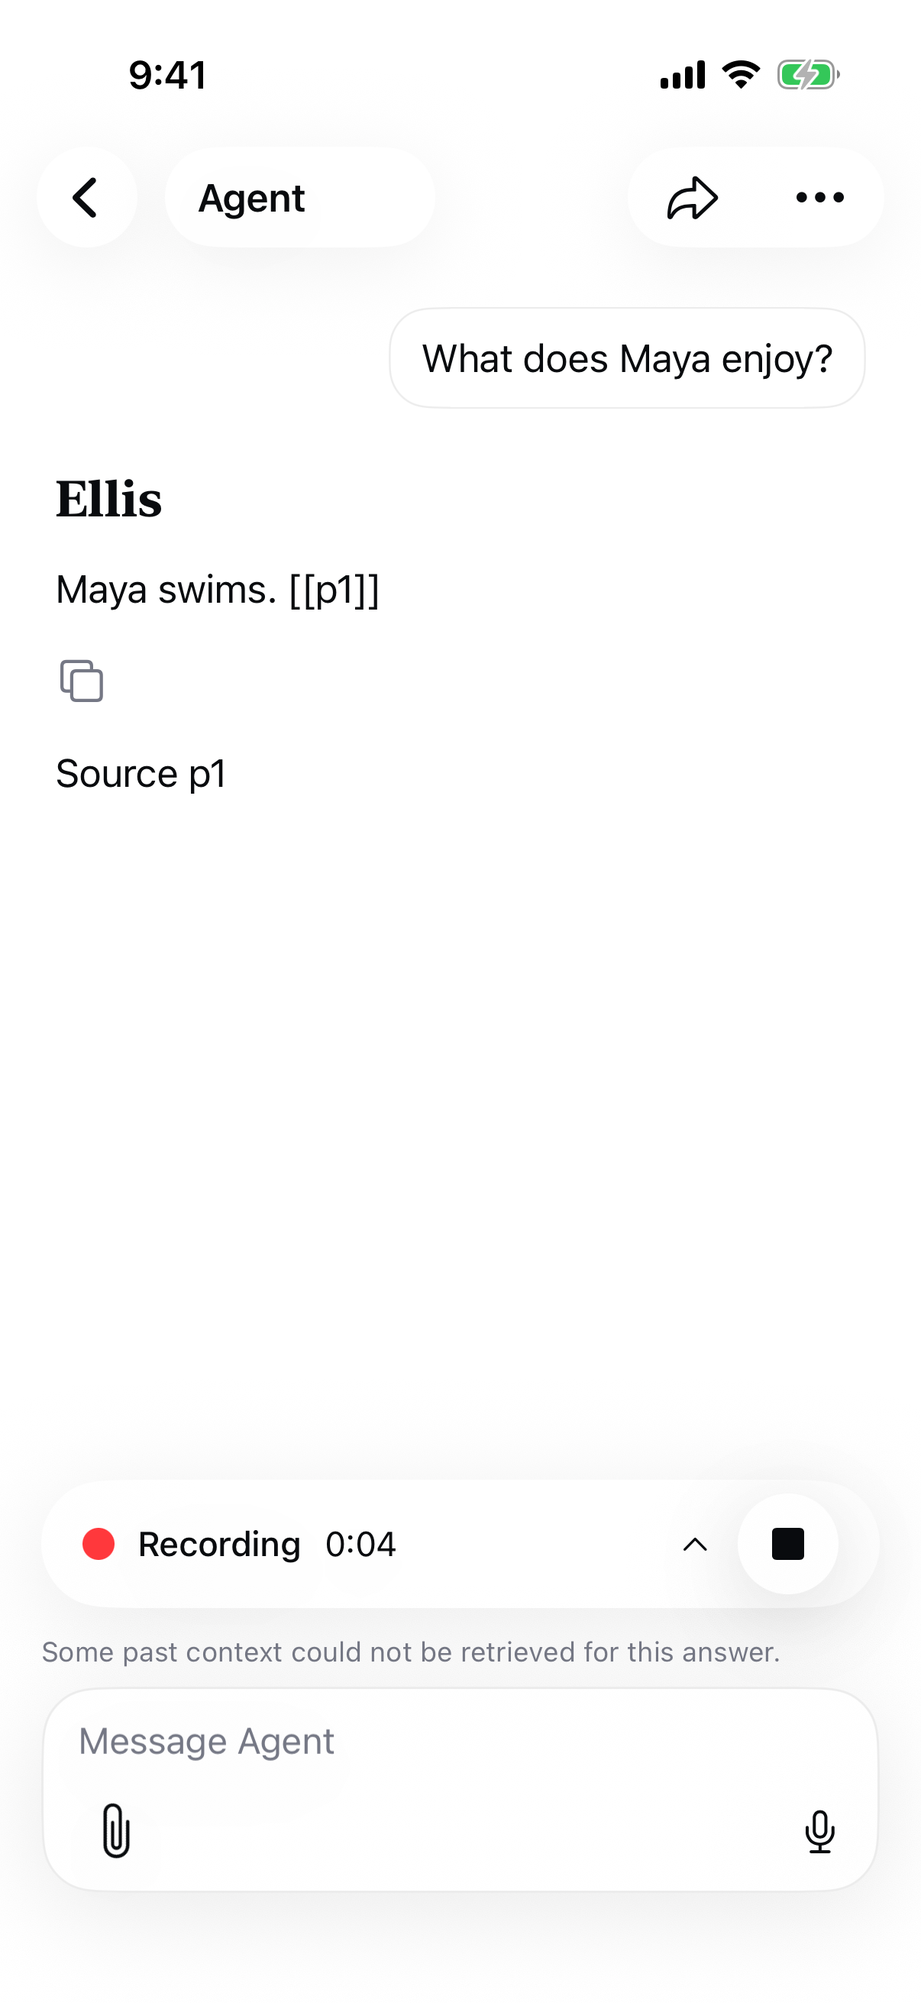
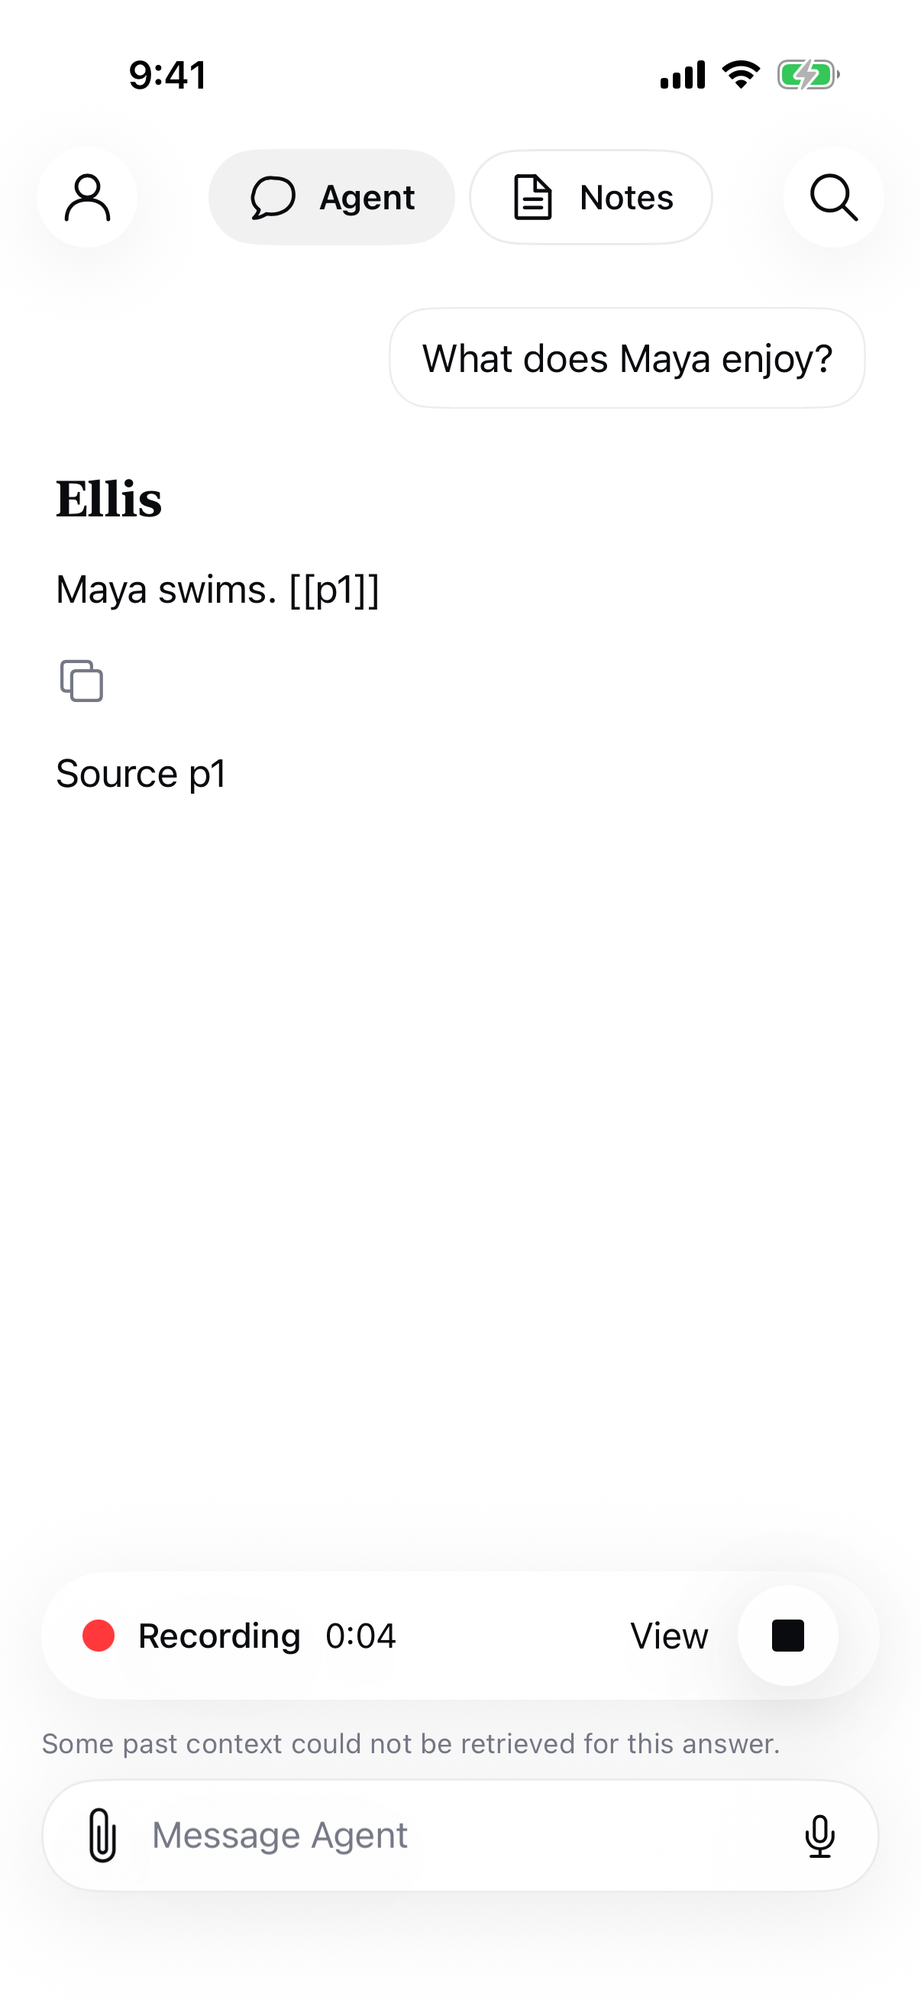
Make Agent primary and use an inline expanding composer

diff --git a/App/CompanionRootView.swift b/App/CompanionRootView.swift
@@ -1,6 +1,6 @@
 import SwiftUI
 
-/// Home and Agent share one draft, one conversation, and deliberate capture.
+/// Notes and Agent share one draft, one conversation, and deliberate capture.
 struct CompanionRootView: View {
     @State private var recording = SessionController.forApp()
     @State private var chat: CompanionController?
@@ -257,13 +257,7 @@ struct CompanionRootView: View {
                         .font(.caption).accessibilityIdentifier("meetingDictationPause")
                 }
                 HStack(alignment: .bottom, spacing: 8) {
-                    VStack(alignment: .leading, spacing: 6) {
-                        TextField("Message Agent", text: Binding(
-                            get: { ComposerDictation.appending(dictation.text, to: chat.draft) },
-                            set: { if !dictation.isActive { chat.draft = $0 } }), prompt: Text("Message Agent").foregroundStyle(ExperienceStyle.secondary), axis: .vertical)
-                            .textFieldStyle(.plain).font(.callout).padding(.horizontal, 2).disabled(dictation.isActive)
-                            .focused($composing).lineLimit(1...4).accessibilityIdentifier("companionDraft")
-                        HStack(spacing: 0) {
+                    HStack(alignment: .bottom, spacing: 0) {
                             Menu {
                                 Button("Attach a recording", systemImage: "doc.text") { composing = false; showingAttachments = true }
                                     .accessibilityIdentifier("chooseRecordingAttachment")
@@ -274,7 +268,11 @@ struct CompanionRootView: View {
                                 Button("Refresh conversation") { chat.refresh() }.disabled(chat.isBusy || recording.pendingMemoryDeletion)
                             } label: { Image(systemName: "paperclip").font(.system(size: 20, weight: .regular)).rotationEffect(.degrees(-45)).frame(width: 44, height: 44).contentShape(Rectangle()) }
                                 .accessibilityLabel("Attachments and message options")
-                            Spacer(minLength: 0)
+                        TextField("Message Agent", text: Binding(
+                            get: { ComposerDictation.appending(dictation.text, to: chat.draft) },
+                            set: { if !dictation.isActive { chat.draft = $0 } }), prompt: Text("Message Agent").foregroundStyle(ExperienceStyle.secondary), axis: .vertical)
+                            .textFieldStyle(.plain).font(.callout).padding(.vertical, 11).disabled(dictation.isActive)
+                            .focused($composing).lineLimit(1...5).frame(maxWidth: .infinity).accessibilityIdentifier("companionDraft")
                             if dictation.isActive {
                                 ExperienceIconButton("Stop dictation", icon: "stop.fill") {
                                     if dictation.state == .starting { dictation.interrupt() } else { dictation.finish(send: false) }
@@ -294,15 +292,14 @@ struct CompanionRootView: View {
                                     }
                                 }.disabled(recording.pendingMemoryDeletion).accessibilityIdentifier("startDictation")
                             }
-                        }.padding(.leading, -4).padding(.trailing, -10)
-                    }.padding(.horizontal, 14).padding(.top, 14).padding(.bottom, 5)
+                    }.padding(.horizontal, 4).padding(.vertical, 3)
                         .background(.white, in: RoundedRectangle(cornerRadius: 24))
                         .overlay(RoundedRectangle(cornerRadius: 24).strokeBorder(ExperienceStyle.line, lineWidth: 1))
                         .shadow(color: .black.opacity(0.075), radius: 20, y: 8)
                     if recording.liveStatus == nil {
                         ExperienceIconButton("Capture meeting note", icon: "plus", filled: true, size: 58) {
                             composing = false; dictation.interrupt(); surface = "Companion"; recording.startRecording()
-                        }.padding(.bottom, 12).accessibilityIdentifier("startRecording")
+                        }.accessibilityIdentifier("startRecording")
                     }
                 }
             }
@@ -399,28 +396,16 @@ struct CompanionRootView: View {
                     Button { searchText = "" } label: { Image(systemName: "xmark").foregroundStyle(ExperienceStyle.secondary).frame(width: 30, height: 30).background(ExperienceStyle.surface, in: Circle()) }.accessibilityLabel("Clear search")
                 }.padding(.horizontal, 14).frame(height: 44).experienceCard(radius: 22)
             }
-        } else if surface == "Companion" {
-            HStack(spacing: 12) {
-                ExperienceIconButton("Home", icon: "chevron.left") { surface = "Recordings" }.accessibilityIdentifier("homeNavigation")
-                Text("Agent").font(.headline).frame(minWidth: 90, alignment: .leading).padding(.horizontal, 14).frame(height: 44)
-                    .background(.white, in: Capsule()).shadow(color: .black.opacity(0.05), radius: 16, y: 7).accessibilityIdentifier("agentNavigation")
-                Spacer(minLength: 0)
-                HStack(spacing: 12) {
-                    if let answer = chat?.turns.last?.answer {
-                        ShareLink(item: CompanionMessageText.presented(answer)) { Image(systemName: "arrowshape.turn.up.right").font(.system(size: 21)).frame(width: 44, height: 44) }
-                    }
-                    Menu {
-                        Button("Account") { showingAccount = true }
-                        Button("Refresh conversation") { chat?.refresh() }
-                    } label: { Image(systemName: "ellipsis").font(.system(size: 22, weight: .semibold)).frame(width: 44, height: 44) }.accessibilityLabel("Agent options")
-                }.padding(.horizontal, 6).background(.white, in: Capsule()).shadow(color: .black.opacity(0.05), radius: 16, y: 7)
-            }
         } else {
         HStack(spacing: 6) {
             ExperienceIconButton("Account", icon: "person") { composing = false; showingAccount = true }
             Spacer(minLength: 8)
-            navigationPill("Home", icon: "house", value: "Recordings", identifier: "homeNavigation")
             navigationPill("Agent", icon: "bubble.left", value: "Companion", identifier: "agentNavigation")
+                .contextMenu {
+                    if let answer = chat?.turns.last?.answer { ShareLink(item: CompanionMessageText.presented(answer)) }
+                    Button("Refresh conversation") { chat?.refresh() }.disabled(chat?.isBusy ?? true)
+                }
+            navigationPill("Notes", icon: "doc.text", value: "Recordings", identifier: "notesNavigation")
             Spacer(minLength: 8)
             ExperienceIconButton("Search recordings", icon: "magnifyingglass") { surface = "Recordings"; searching.toggle() }
                 .accessibilityIdentifier("searchRecordings")
@@ -531,7 +516,7 @@ struct CompanionRootView: View {
                         Text(String(format: "%d:%02d", seconds / 60, seconds % 60)).monospacedDigit().font(.subheadline)
                     }
                     Spacer(minLength: 0)
-                    Image(systemName: "chevron.up").font(.caption)
+                    Text("View").font(.callout)
                 }.frame(minHeight: 44).contentShape(Rectangle())
             }.accessibilityLabel("Open live transcript").accessibilityIdentifier("showActiveRecording")
             ExperienceIconButton("Stop recording", icon: "stop.fill") { recording.stop() }

diff --git a/docs/qa/native-experience/index.html b/docs/qa/native-experience/index.html
@@ -1,1 +1,1 @@
-<!doctype html><html lang="en"><meta charset="utf-8"><meta name="viewport" content="width=device-width,initial-scale=1"><title>Native UI screenshot gallery</title><style>body{margin:0;padding:32px;background:#f1f1f3;color:#111;font:16px system-ui}h1{font-size:28px}p{max-width:850px;line-height:1.6;color:#656570}main{display:grid;grid-template-columns:repeat(auto-fit,minmax(260px,1fr));gap:28px}figure{margin:0}figcaption{font-weight:600;margin:16px 0}img{display:block;width:100%;height:auto;border-radius:20px;box-shadow:0 8px 32px #00000012}a{color:inherit}</style><h1>Native UI · final reference pass</h1><p>Actual iPhone 17 Pro simulator screenshots, September 27, 2026. Click any screen for its full-resolution image. Sign-up and billing are unconnected previews. Capture screens include synthetic QA content and source-debug output. Physical-device acceptance remains pending.</p><main><figure><figcaption>Home</figcaption><a href="home.png"><img src="home.png" alt="Home" loading="lazy"></a></figure><figure><figcaption>Agent · empty</figcaption><a href="agent.png"><img src="agent.png" alt="Agent · empty" loading="lazy"></a></figure><figure><figcaption>Agent · capture QA</figcaption><a href="agent-capture.png"><img src="agent-capture.png" alt="Agent · capture QA" loading="lazy"></a></figure><figure><figcaption>Notes</figcaption><a href="notes.png"><img src="notes.png" alt="Notes" loading="lazy"></a></figure><figure><figcaption>Live transcript · QA fixture</figcaption><a href="live-transcript.png"><img src="live-transcript.png" alt="Live transcript · QA fixture" loading="lazy"></a></figure><figure><figcaption>Search</figcaption><a href="search.png"><img src="search.png" alt="Search" loading="lazy"></a></figure><figure><figcaption>Account</figcaption><a href="account.png"><img src="account.png" alt="Account" loading="lazy"></a></figure><figure><figcaption>Sign-up · preview</figcaption><a href="signup.png"><img src="signup.png" alt="Sign-up · preview" loading="lazy"></a></figure><figure><figcaption>Pricing · preview</figcaption><a href="pricing.png"><img src="pricing.png" alt="Pricing · preview" loading="lazy"></a></figure><figure><figcaption>Composer · typing</figcaption><a href="composer-send.png"><img src="composer-send.png" alt="Composer · typing" loading="lazy"></a></figure><figure><figcaption>Attachments</figcaption><a href="attachments.png"><img src="attachments.png" alt="Attachments" loading="lazy"></a></figure></main></html>
+<!doctype html><html lang="en"><meta charset="utf-8"><meta name="viewport" content="width=device-width,initial-scale=1"><title>Native UI screenshot gallery</title><style>body{margin:0;padding:32px;background:#f1f1f3;color:#111;font:16px system-ui}h1{font-size:28px}p{max-width:850px;line-height:1.6;color:#656570}main{display:grid;grid-template-columns:repeat(auto-fit,minmax(260px,1fr));gap:28px}figure{margin:0}figcaption{font-weight:600;margin:16px 0}img{display:block;width:100%;height:auto;border-radius:20px;box-shadow:0 8px 32px #00000012}a{color:inherit}</style><h1>Native UI · final reference pass</h1><p>Actual iPhone 17 Pro simulator screenshots, September 27, 2026. Click any screen for its full-resolution image. Sign-up and billing are unconnected previews. Capture screens include synthetic QA content and source-debug output. Physical-device acceptance remains pending.</p><main><figure><figcaption>Notes</figcaption><a href="home.png"><img src="home.png" alt="Notes" loading="lazy"></a></figure><figure><figcaption>Agent · empty</figcaption><a href="agent.png"><img src="agent.png" alt="Agent · empty" loading="lazy"></a></figure><figure><figcaption>Agent · capture QA</figcaption><a href="agent-capture.png"><img src="agent-capture.png" alt="Agent · capture QA" loading="lazy"></a></figure><figure><figcaption>Notes</figcaption><a href="notes.png"><img src="notes.png" alt="Notes" loading="lazy"></a></figure><figure><figcaption>Live transcript · QA fixture</figcaption><a href="live-transcript.png"><img src="live-transcript.png" alt="Live transcript · QA fixture" loading="lazy"></a></figure><figure><figcaption>Search</figcaption><a href="search.png"><img src="search.png" alt="Search" loading="lazy"></a></figure><figure><figcaption>Account</figcaption><a href="account.png"><img src="account.png" alt="Account" loading="lazy"></a></figure><figure><figcaption>Sign-up · preview</figcaption><a href="signup.png"><img src="signup.png" alt="Sign-up · preview" loading="lazy"></a></figure><figure><figcaption>Pricing · preview</figcaption><a href="pricing.png"><img src="pricing.png" alt="Pricing · preview" loading="lazy"></a></figure><figure><figcaption>Composer · typing</figcaption><a href="composer-send.png"><img src="composer-send.png" alt="Composer · typing" loading="lazy"></a></figure><figure><figcaption>Attachments</figcaption><a href="attachments.png"><img src="attachments.png" alt="Attachments" loading="lazy"></a></figure><figure><figcaption>Composer · multiline</figcaption><a href="composer-multiline.png"><img src="composer-multiline.png" alt="Multiline composer" loading="lazy"></a></figure></main></html>

diff --git a/UITests/CompanionPhoneUITests.swift b/UITests/CompanionPhoneUITests.swift
@@ -24,8 +24,8 @@ final class CompanionPhoneUITests: XCTestCase {
         app.launchEnvironment["VOICE_MEMORY_UI_CONFIG"] = config
         app.launchEnvironment["VOICE_UI_SESSION_FIXTURE"] = String(data: try JSONSerialization.data(withJSONObject: samples), encoding: .utf8)
         app.launch(); defer { app.terminate() }
-        XCTAssertTrue(app.buttons["homeNavigation"].waitForExistence(timeout: 5))
-        app.buttons["homeNavigation"].tap()
+        XCTAssertTrue(app.buttons["notesNavigation"].waitForExistence(timeout: 5))
+        app.buttons["notesNavigation"].tap()
         XCTAssertEqual(app.buttons.matching(identifier: "savedSession").count, 4)
         // Open the first note to wait on actual fixture generation, then refresh library titles.
         app.buttons["savedSession"].firstMatch.tap()
@@ -43,7 +43,7 @@ final class CompanionPhoneUITests: XCTestCase {
         app.buttons["removeAttachment"].tap()
         app.buttons["agentNavigation"].tap()
         snapshot(app, "Polished Agent")
-        app.buttons["homeNavigation"].tap()
+        app.buttons["notesNavigation"].tap()
         app.buttons["searchRecordings"].tap()
         app.textFields["recordingSearch"].tap(); app.textFields["recordingSearch"].typeText("launch\n")
         app.swipeDown()
@@ -78,7 +78,16 @@ final class CompanionPhoneUITests: XCTestCase {
         XCTAssertTrue(app.buttons["sendCompanion"].exists)
         XCTAssertFalse(app.buttons["startDictation"].exists)
         snapshot(app, "Agent composer with send")
-        app.buttons["homeNavigation"].tap()
+        let singleLineHeight = draft.frame.height
+        draft.typeText(" and help me remember the people involved, the decisions we made, and what I should follow up on tomorrow.")
+        XCTAssertGreaterThan(draft.frame.height, singleLineHeight + 15)
+        snapshot(app, "Composer wrapping naturally")
+        app.buttons["Attachments and message options"].tap()
+        app.buttons["clearCompanionDraft"].tap()
+        XCTAssertTrue(app.buttons["startDictation"].exists)
+        draft.tap(); draft.typeText("Keep this thought")
+
+        app.buttons["notesNavigation"].tap()
         XCTAssertEqual(draft.value as? String, "Keep this thought")
         XCTAssertTrue(app.buttons["sendCompanion"].exists)
         XCTAssertFalse(app.buttons["startDictation"].exists)
@@ -94,7 +103,7 @@ final class CompanionPhoneUITests: XCTestCase {
         app.buttons["stopRecording"].tap()
         XCTAssertTrue(app.buttons["askAboutRecording"].waitForExistence(timeout: 8))
         app.buttons["Close recording"].tap()
-        app.buttons["homeNavigation"].tap()
+        app.buttons["notesNavigation"].tap()
         XCTAssertTrue(app.buttons["savedSession"].firstMatch.waitForExistence(timeout: 5))
         let home = XCTAttachment(screenshot: app.screenshot()); home.name = "Home with shared composer"; home.lifetime = .keepAlways; add(home)
         app.buttons["searchRecordings"].tap()

diff --git a/UITests/RecordingNotesPhoneUITests.swift b/UITests/RecordingNotesPhoneUITests.swift
@@ -11,7 +11,7 @@ final class RecordingNotesPhoneUITests: XCTestCase {
         app.launchEnvironment["VOICE_MEMORY_UI_CONFIG"] = config
         app.launch()
         defer { app.terminate() }
-        app.buttons["homeNavigation"].tap()
+        app.buttons["notesNavigation"].tap()
         let existingCount = app.buttons.matching(identifier: "savedSession").count
         app.buttons["agentNavigation"].tap()
         app.buttons["startRecording"].tap()
@@ -29,7 +29,7 @@ final class RecordingNotesPhoneUITests: XCTestCase {
         app.terminate()
         app.launchArguments = ["--ui-testing", "--companion-ui-fixture"]
         app.launch()
-        app.buttons["homeNavigation"].tap()
+        app.buttons["notesNavigation"].tap()
         XCTAssertTrue(app.buttons["savedSession"].firstMatch.waitForExistence(timeout: 5))
         app.buttons["savedSession"].firstMatch.tap()
         XCTAssertTrue(app.staticTexts["notesTitle"].waitForExistence(timeout: 10))

diff --git a/UITests/RecordingNotesUITests.swift b/UITests/RecordingNotesUITests.swift
@@ -40,7 +40,7 @@ final class RecordingNotesUITests: XCTestCase {
         app.terminate()
         app.launchArguments = ["--ui-testing", "--companion-ui-fixture"]
         app.launch()
-        app.buttons["homeNavigation"].tap()
+        app.buttons["notesNavigation"].tap()
         XCTAssertTrue(app.buttons["savedSession"].firstMatch.waitForExistence(timeout: 5))
         app.buttons["savedSession"].firstMatch.tap()
         XCTAssertTrue(app.staticTexts["notesTitle"].waitForExistence(timeout: 10))

diff --git a/docs/current-state.md b/docs/current-state.md
@@ -20,7 +20,7 @@ Two actions: **Capture meeting note** and **Talk to companion**. Voice notes and
 
 ## UI candidate
 
-The [native experience UI checkpoint](native-experience-ui.md) implements the approved Home/Agent visual direction, shared composer, recording sheet, search, and account screen layouts. Four isolated iPhone simulator flows and Mac compilation passed. The fidelity revision aligns header icons, list spacing and the continuous white composer surface with the approved mockup; the paperclip opens a recording-attachment picker, and the shared Home/Agent composer swaps mic for send when text is present. It is not installed on the physical phone or accepted as device delivery; Mac UI automation and founder-assisted device QA remain pending. Authentication and subscription screens are previews. The final eight-screen pass adds contextual Agent headers, full-page saved notes and account, a dedicated highlighted-results search screen, grouped pricing and account cards, and aligned sign-up typography. The September 27 final run passed all four simulator flows and Mac compilation; actual screenshots are in the [gallery](qa/native-experience/index.html).
+The [native experience UI checkpoint](native-experience-ui.md) implements the approved visual direction. Agent is the primary/default screen and first top tab; Notes is the secondary recording library. Both share a single-row composer with an upright paperclip, inline text and mic/send control. Drafts wrap naturally up to five visible lines, then scroll. The recording bar has a View label and separate Stop control. Saved notes and account use full pages; live transcription uses a sheet. Authentication and subscription screens remain previews. This candidate is not installed on the physical phone or accepted as device delivery; Mac UI automation and founder-assisted device QA remain pending. Actual screenshots are in the [gallery](qa/native-experience/index.html).
 
 ## Delivery status and acceptance
 

diff --git a/docs/native-experience-ui.md b/docs/native-experience-ui.md
@@ -75,3 +75,10 @@ Final verification: all four isolated simulator scenarios passed on iPhone 17 Pr
 - [Account](qa/native-experience/account.png), [sign-up preview](qa/native-experience/signup.png), [pricing preview](qa/native-experience/pricing.png)
 
 These are close native adaptations, not pixel-identical reproductions. The simulator's status bar and iOS sheet chrome differ; content length and source links affect note height. The Agent capture test intentionally includes source-debug output and a partial-context retrieval notice; the live transcript uses synthetic stress text. Account, authentication and billing have explicit unconnected-service states instead of simulated signed-in or paid behavior. No physical-phone acceptance or Mac UI behavioral pass is implied.
+
+
+## Agent-first navigation and inline composer — September 27
+
+Agent is now the first/default root tab, with Notes second for the recording library. Both tabs remain visible on both root screens. Latest-answer sharing and refresh are available by long-pressing Agent. The recording bar now says View beside the separate Stop button. The shared composer starts on one row: upright paperclip, inline text, mic/send. Longer drafts wrap up to five visible lines and then scroll; clearing restores the compact mic state. The external capture plus remains separate.
+
+All four isolated simulator flows passed again (21.821s, 19.965s, 28.162s, 20.105s), including an explicit automatic-wrapping height check, screenshot, clearing and shared-draft check. Results: `/tmp/VoiceCompanion-ExperienceResults/20260927-200059/`. Mac compilation passed. Screenshots in the gallery are refreshed; `home.png` is retained as the filename for the renamed Notes screen. [Multiline composer](qa/native-experience/composer-multiline.png). This supersedes the prior two-tier composer and contextual Agent-only header. No paid calls, device installation or new physical-device acceptance.

diff --git a/docs/engineering-principles.md b/docs/engineering-principles.md
@@ -244,3 +244,7 @@ Founder composer interaction revision: one trailing control in the shared Home/A
 
 
 Founder all-screen fidelity direction, September 27: compare rendered native Home, Agent, saved notes, live transcript, sign-up, pricing, account and search against the eight supplied final mockups. Match shared typography, iconography, spacing, sizing, borders and shadows using screenshot iteration. Preserve subsequent interaction decisions: upright paperclip, shared Home/Agent composer with mic replaced by send for text, external capture plus, Stop without Pause, and recording-bar tap to open transcript. Visual reference content does not authorize fake authentication, billing, analytics or new product capabilities. Record actual differences and verification limits.
+
+Founder composer revision, September 27: Home and Agent use a single-row composer at rest. The upright paperclip, inline text entry and mic/send action share one row; text begins immediately to the right of the paperclip. Longer drafts wrap and increase the text field height naturally. This supersedes the earlier two-tier composer geometry while preserving attachment, dictation and capture behavior.
+
+Founder navigation revision, September 27: Agent is the main/default surface and first top tab; the recording library is named Notes and is the secondary tab. Keep both tabs available on both root surfaces. The recording bar uses the visible label “View” instead of an up chevron; Stop remains separate.
